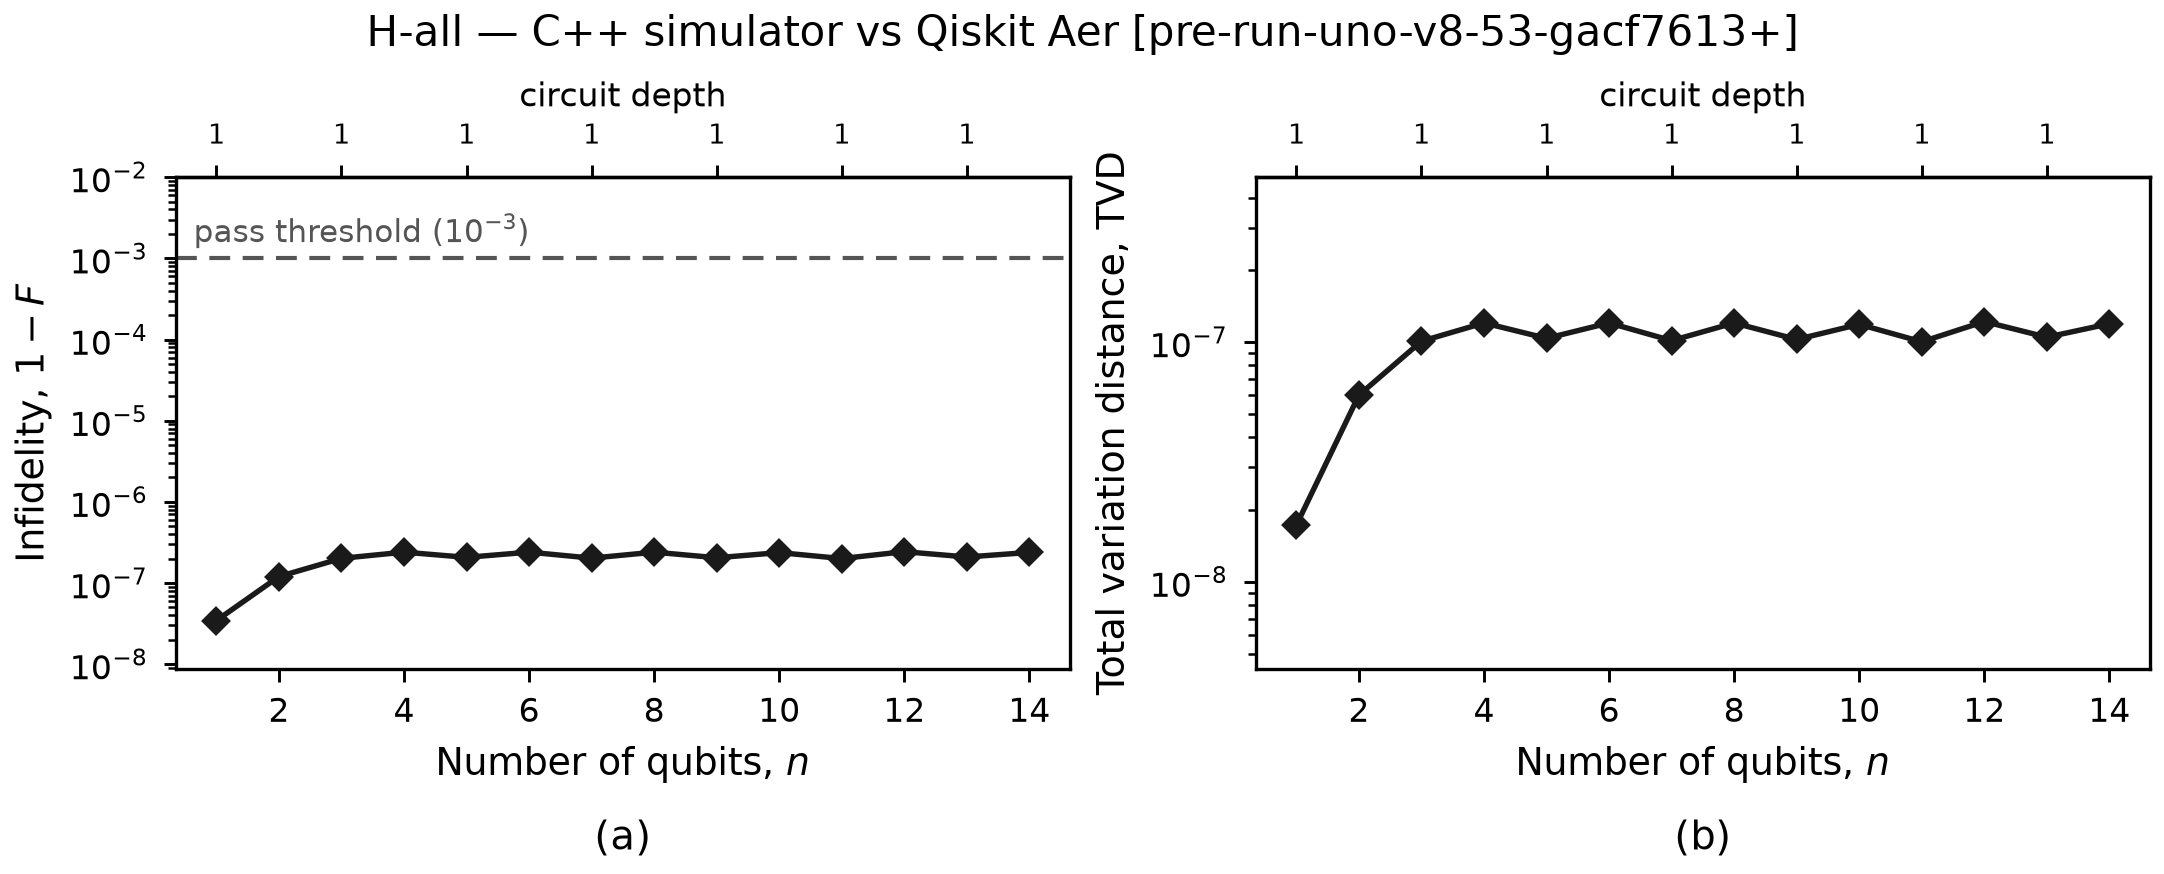
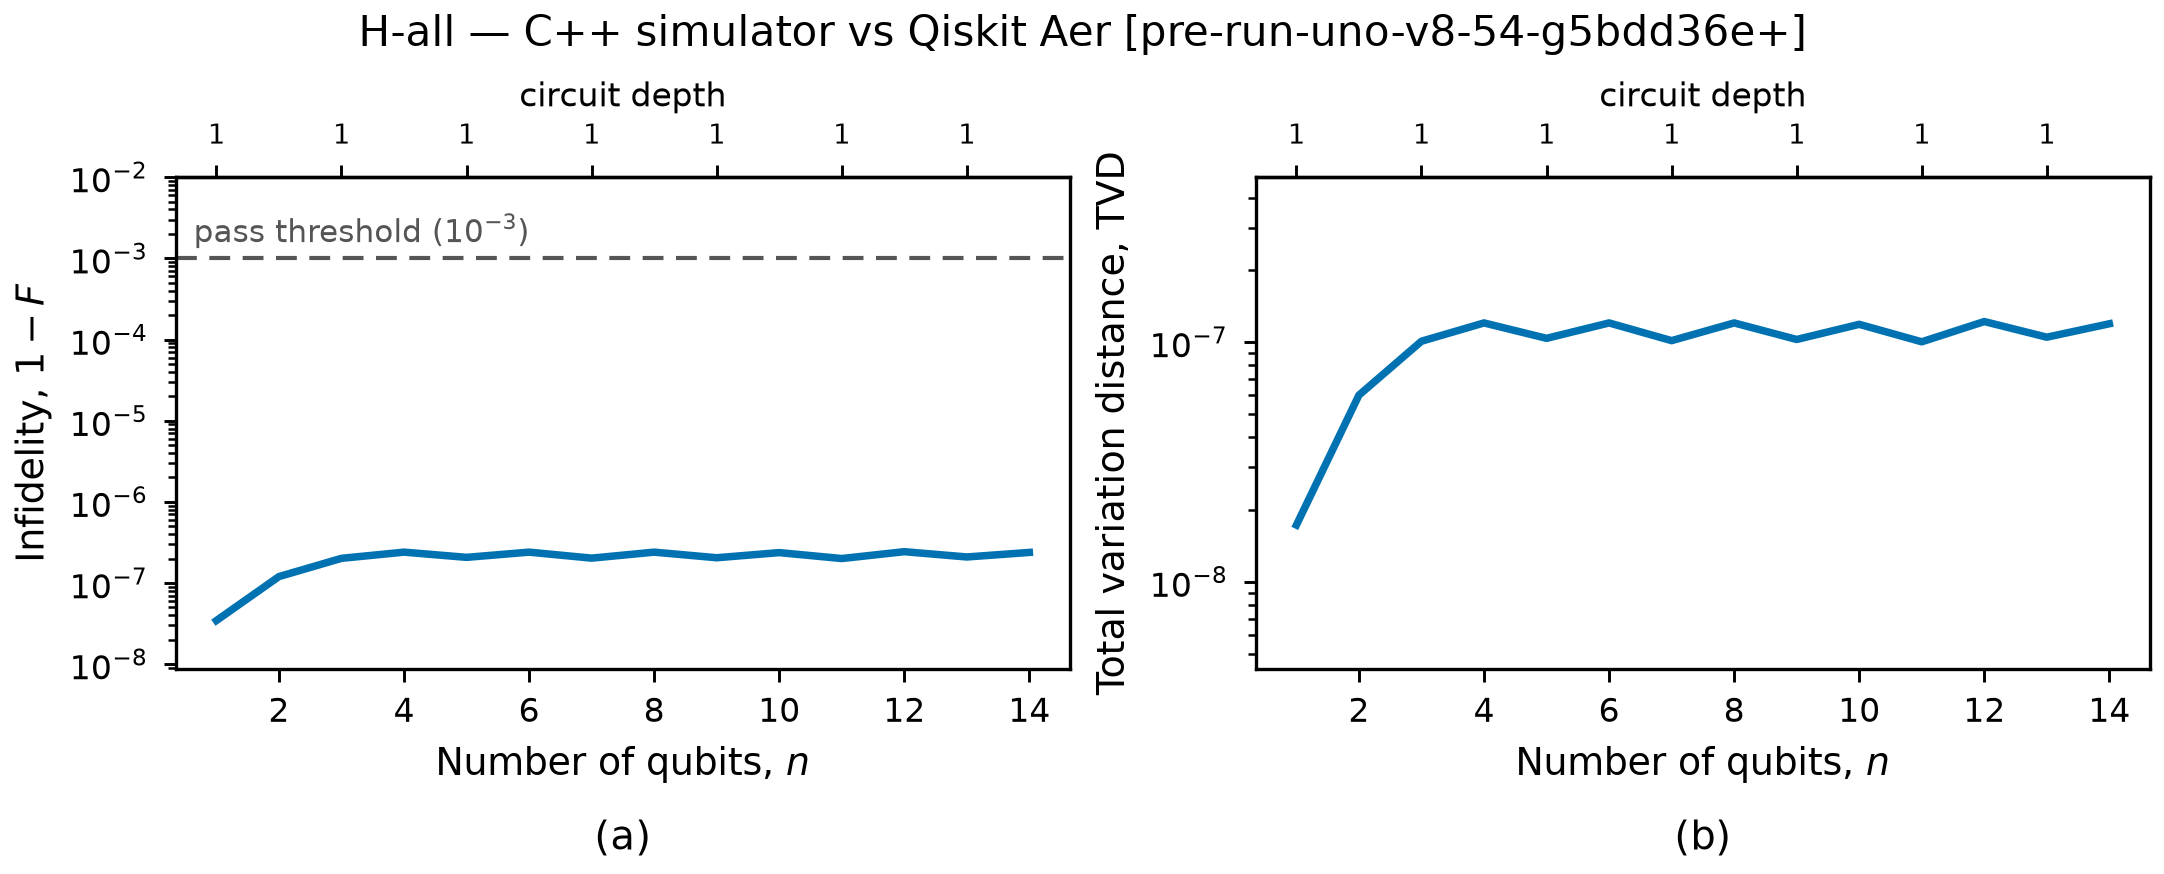
figures: phase 1 charts separate algorithms by colour only (no markers), log scales
Claude-Session: https://claude.ai/code/session_013kKEg84Hri4RVtWJAKgCnk

diff --git a/analysis/phase1_plot.py b/analysis/phase1_plot.py
@@ -43,9 +43,20 @@ def load_rows():
     return [merged[k] for k in sorted(merged)]
 
 
-# --- Phase 1 has no boards, so the board palette is not borrowed: a circuit uses the project-wide CIRCUIT_INK /
-# CIRCUIT_LINESTYLE / CIRCUIT_MARKER, so it looks the same here as in every other chart (and stays separable in greyscale). The rcParams come from ps.apply_style() (clean style). ---
-PUB_COLOR = dict(ps.CIRCUIT_INK)      # same grey ink per circuit as in every other chart
+# --- Phase 1 charts tell the algorithms apart by COLOUR ONLY (solid lines, no markers). Phase 1 has no boards, so the
+# board colours are not reused: blue / vermillion / green / purple, checked with dataviz validate_palette.js
+# (--pairs all, light surface): lightness, chroma, normal-vision floor (min dE 18.7) and 3:1 contrast pass; CVD
+# separation is in the 6-8 floor band (purple vs blue 6.7), so the legend order matches the curve order and the
+# per-algorithm figures carry the algorithm name in the title. The rcParams come from ps.apply_style(). ---
+PUB_COLOR = {"h_all": "#0072B2", "bell_ghz": "#D55E00", "qft": "#009E73", "grover": "#7B3294"}
+LINE_W = 1.8
+
+
+def _curve(ax, xs, ys, circuit, **kw):
+    """Solid coloured line, no marker. A lone point has no line to draw, so it gets one small dot to stay visible."""
+    if len(xs) == 1:
+        return ax.plot(xs, ys, color=PUB_COLOR[circuit], marker="o", markersize=3, linestyle="none", zorder=3, **kw)
+    return ax.plot(xs, ys, color=PUB_COLOR[circuit], linestyle="-", linewidth=LINE_W, zorder=3, **kw)
 PUB_LABEL = {
     "h_all": "H-all", "bell_ghz": "Bell/GHZ", "qft": "QFT",
     "grover": "Grover",
@@ -61,11 +72,7 @@ def _draw_panel(ax, rows, column, ylabel, threshold=None):
         omitted += len(pts) - len(shown)
         if not shown:
             continue
-        single = len(shown) == 1
-        ax.plot([p[0] for p in shown], [p[1] for p in shown],
-                color=PUB_COLOR[circuit], marker=ps.CIRCUIT_MARKER[circuit], markersize=ps.MARKER_SIZE,
-                linestyle=ps.CIRCUIT_LINESTYLE[circuit], linewidth=0 if single else ps.LINE_WIDTH,
-                label=PUB_LABEL[circuit], zorder=3)
+        _curve(ax, [p[0] for p in shown], [p[1] for p in shown], circuit, label=PUB_LABEL[circuit])
     if threshold is not None:
         ax.axhline(threshold, color=ps.INK_SECONDARY, linestyle=(0, (5, 3)), linewidth=ps.REF_LINE_WIDTH, zorder=2)
         ax.text(1.15, threshold * 1.25, r"pass threshold ($10^{-3}$)", fontsize=7.5,
@@ -129,10 +136,7 @@ def plot_per_algorithm(rows):
                     (axes[0], 2, r"Infidelity, $1-F$", THRESHOLD, "a"),
                     (axes[1], 3, "Total variation distance, TVD", None, "b")):
                 shown = [(p[0], p[idx]) for p in pts if p[idx] > 0]
-                ax.plot([x for x, _ in shown], [y for _, y in shown],
-                        color=PUB_COLOR[circuit], marker=ps.CIRCUIT_MARKER[circuit], markersize=ps.MARKER_SIZE,
-                        linestyle=ps.CIRCUIT_LINESTYLE[circuit],
-                        linewidth=0 if len(shown) == 1 else ps.LINE_WIDTH, zorder=3)
+                _curve(ax, [x for x, _ in shown], [y for _, y in shown], circuit)
                 if thr is not None:
                     ax.axhline(thr, color=ps.INK_SECONDARY, linestyle=(0, (5, 3)), linewidth=ps.REF_LINE_WIDTH)
                     ax.text(0.02, thr * 1.25, r"pass threshold ($10^{-3}$)", fontsize=7.5,
